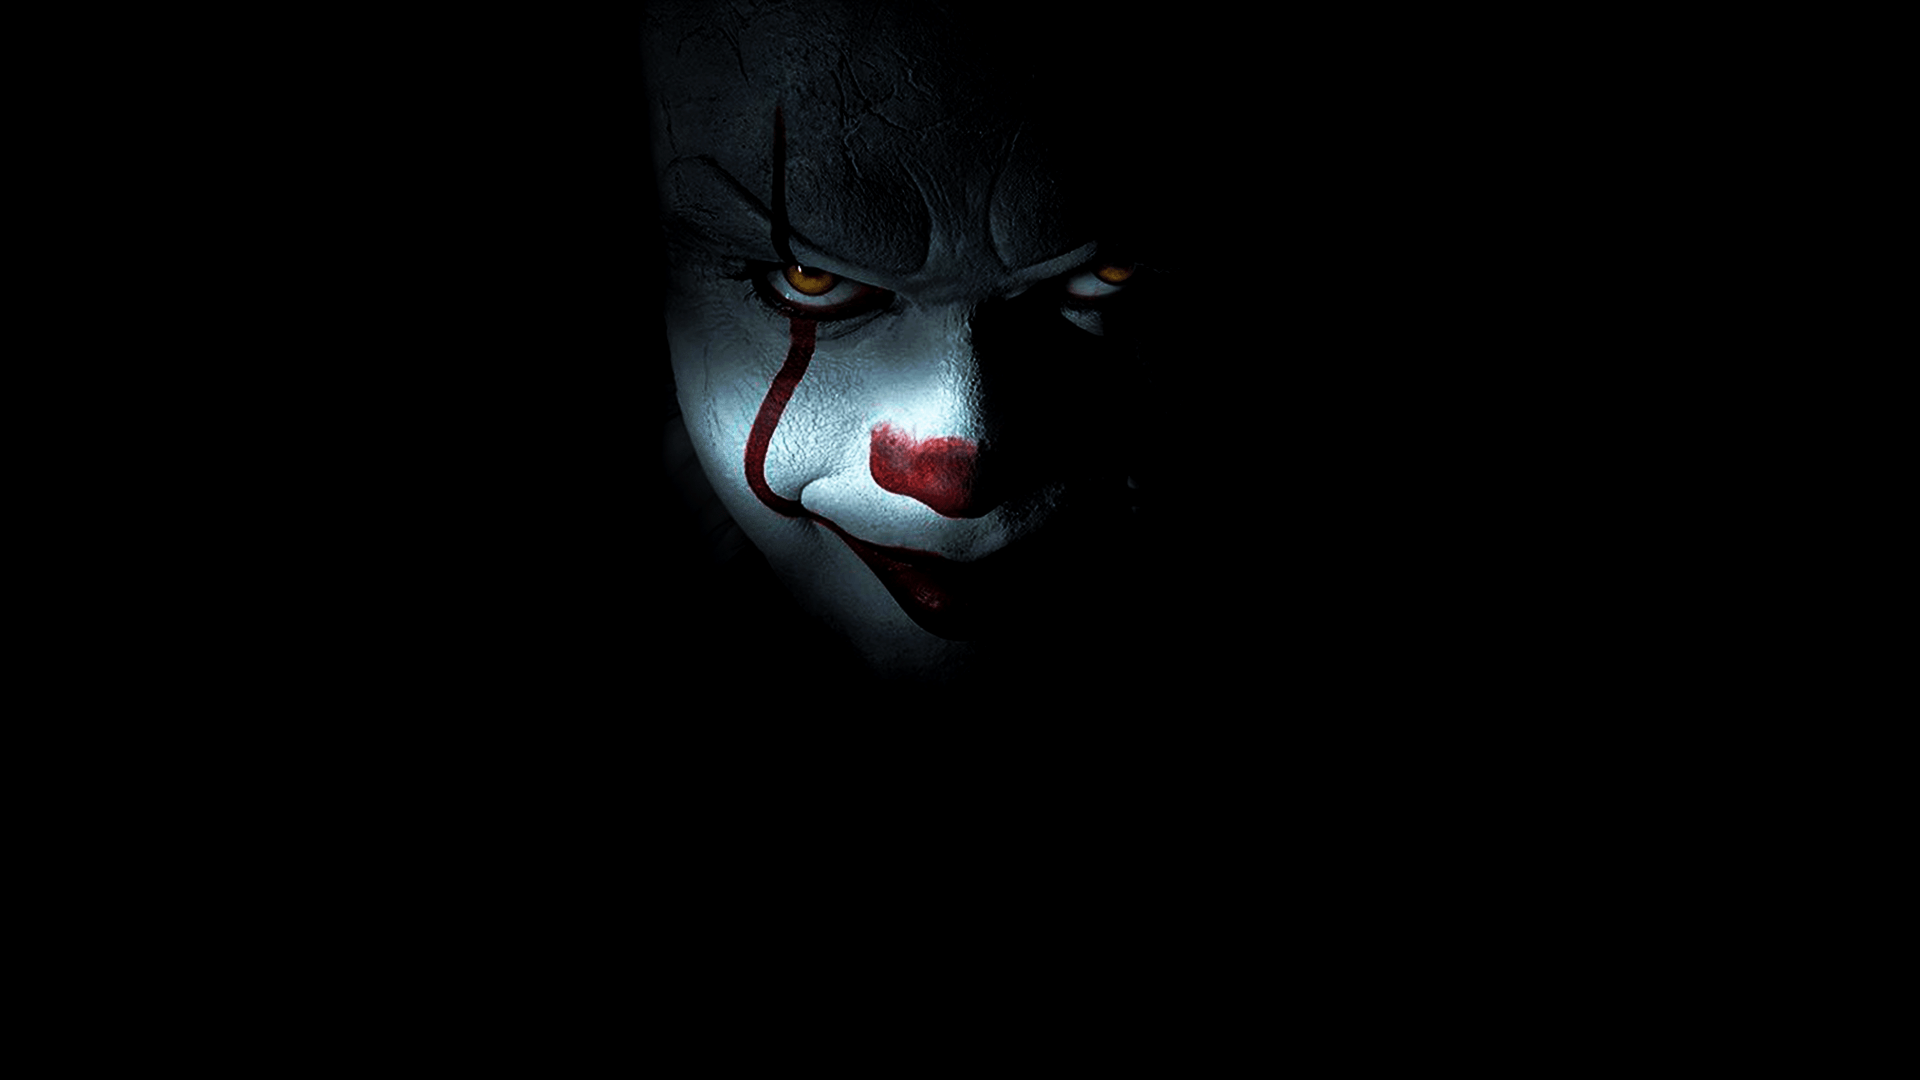
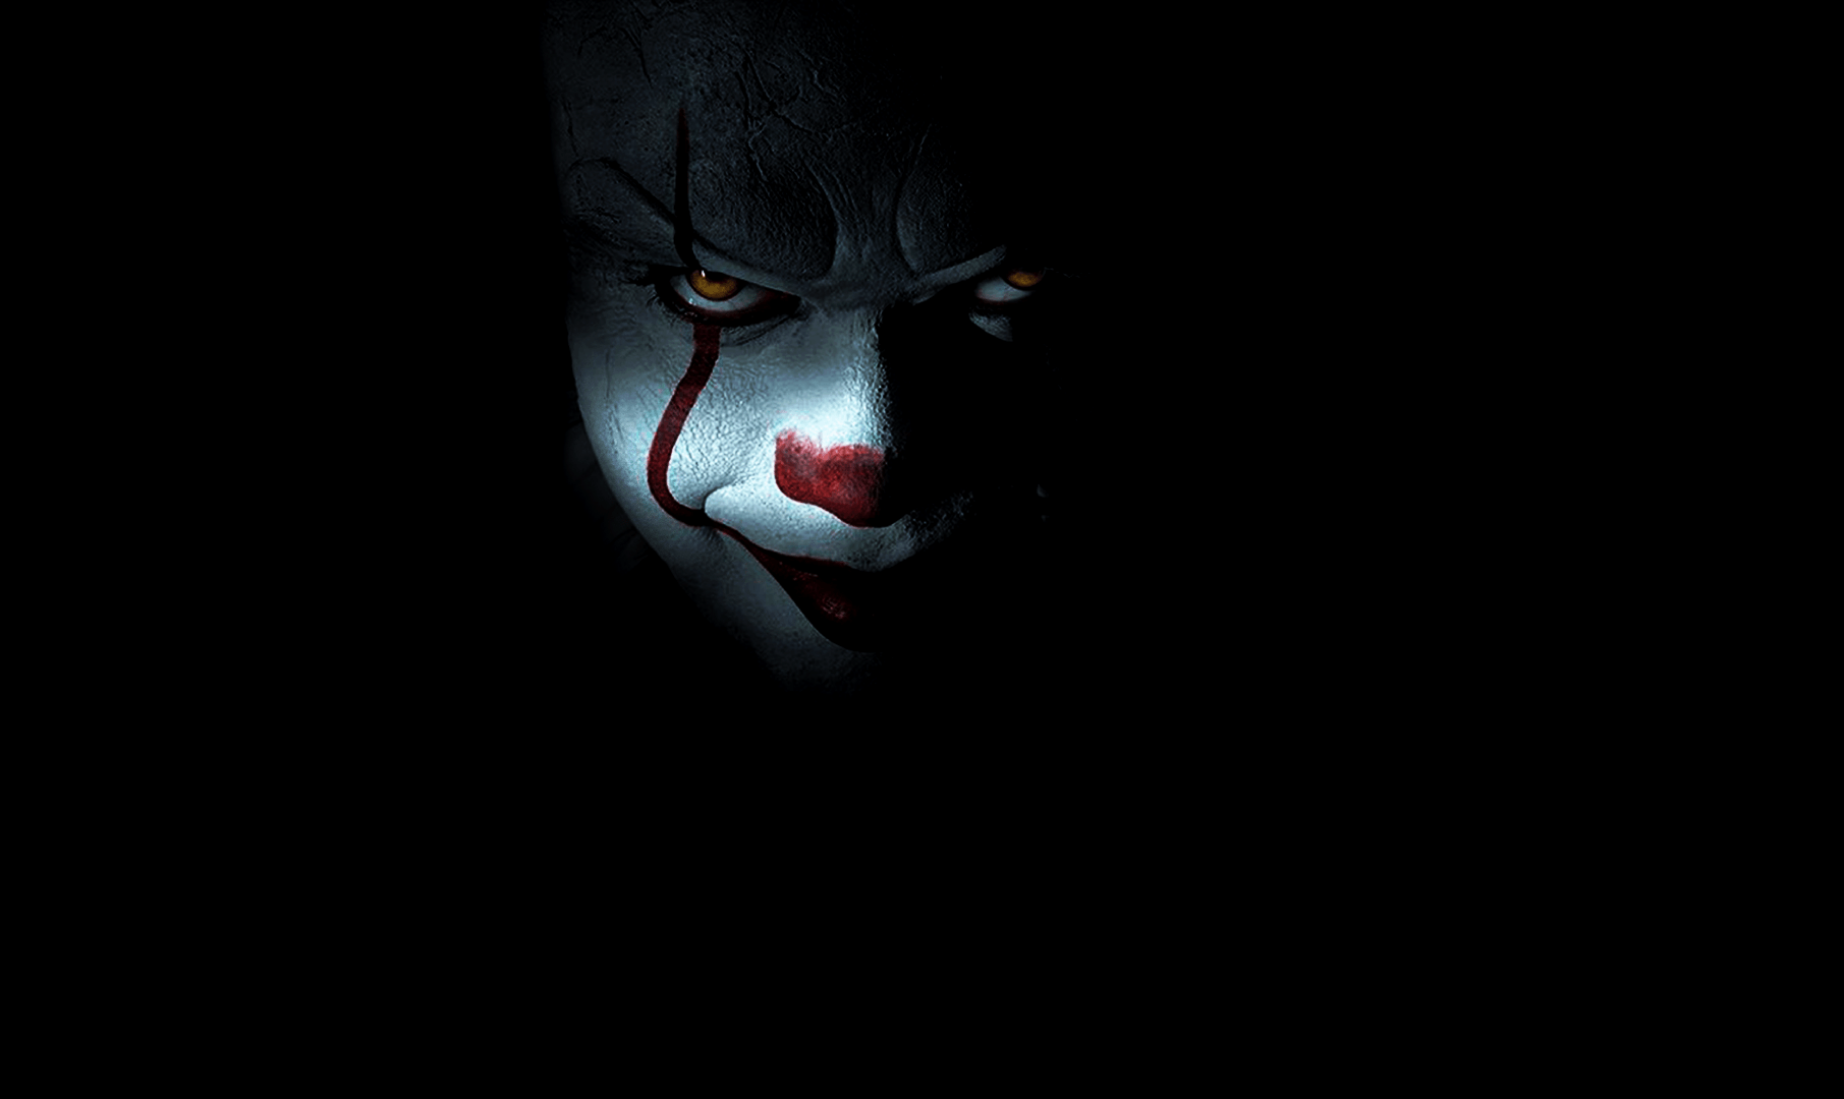
update

Changed region(s): [[0.3091, 0.0306, 0.5873, 0.6111]]

diff --git a/assets/css/medias.css b/assets/css/medias.css
@@ -22,9 +22,9 @@
     }
 
     .section-1 .title{
-        width: 370px;
-        height: 150px;
-        top: 10px;
+        width: 320px;
+        height: 120px;
+        top: -20px;
     }
 
     .pennywise-desktop{
@@ -88,7 +88,7 @@
     }
 
     .section-1 .pennywise-desktop{
-        top: 79px;
+        top: 86px;
         opacity: 1;
     }
 
@@ -120,8 +120,8 @@
 
     .title.active{
         top: -230px;
-        width: 480px;
-        height: 170px;
+        width: 500px;
+        height: 160px;
     }
 
     .section-1 .arrow-donw{
@@ -170,10 +170,10 @@
         top: -250px;
     }
 
-    .arrow-donw.active{
+    /* .arrow-donw.active{
         padding: 5px;
         top: 250px;
-    }
+    } */
 
     .section-2.active iframe{
         top: -35px;  
@@ -189,8 +189,23 @@
         width: 1200px;
         height: 650px;
     }
+    
     .section-1.active{
-        /* background-image: url(/projeto_welcomeToDerry/assets/img/IT-DARK-desktop3.png); */
+        background-image: url(/projeto_welcomeToDerry/assets/img/png\ dark.png);
+        position: relative;
+        right: -80px;
+    }
+
+    .title.active{
+        width: 500px;
+        height: 150px;
+        top: -270px;
+        right: 60px;
+    }
+
+    .arrow-donw.active{
+        top: 320px;
+        right: 40px;
     }
     
 }

diff --git a/assets/css/dark-mode.css b/assets/css/dark-mode.css
@@ -40,7 +40,7 @@
 }
 
 .section-1.active{
-    background-image: url(/projeto_welcomeToDerry/assets/img/it-dark-desktop.png);
+    background-image: url(/projeto_welcomeToDerry/assets/img/it-png-dark.png);
     justify-content: center;
     align-items: center;
 }
@@ -59,6 +59,7 @@
 
 .section-2.active{
     background-color: #000;   
+    padding-top: 150px;
 }
 
 

diff --git a/assets/css/style.css b/assets/css/style.css
@@ -21,6 +21,7 @@
 
 body{
     font-family: 'it-fonte2';
+    background-color: #000;
 }
 
 .navbar{
@@ -113,7 +114,7 @@ body{
 
 .section-2 iframe{
     border: 5px solid #b60000;
-    top: 10px;  
+    /* top: 10px;   */
 }
 
 .jorge{

diff --git a/index.html b/index.html
@@ -48,3 +48,8 @@
     <script src="/projeto_welcomeToDerry/assets/js/main.js"></script>
 </body>
 </html>
+
+<!-- 
+    - AJEITAR O ESPACAMENTO DO JORGE NO MOBILE
+    - AJEITAR O IT DARK NO DESKTOP
+ -->
